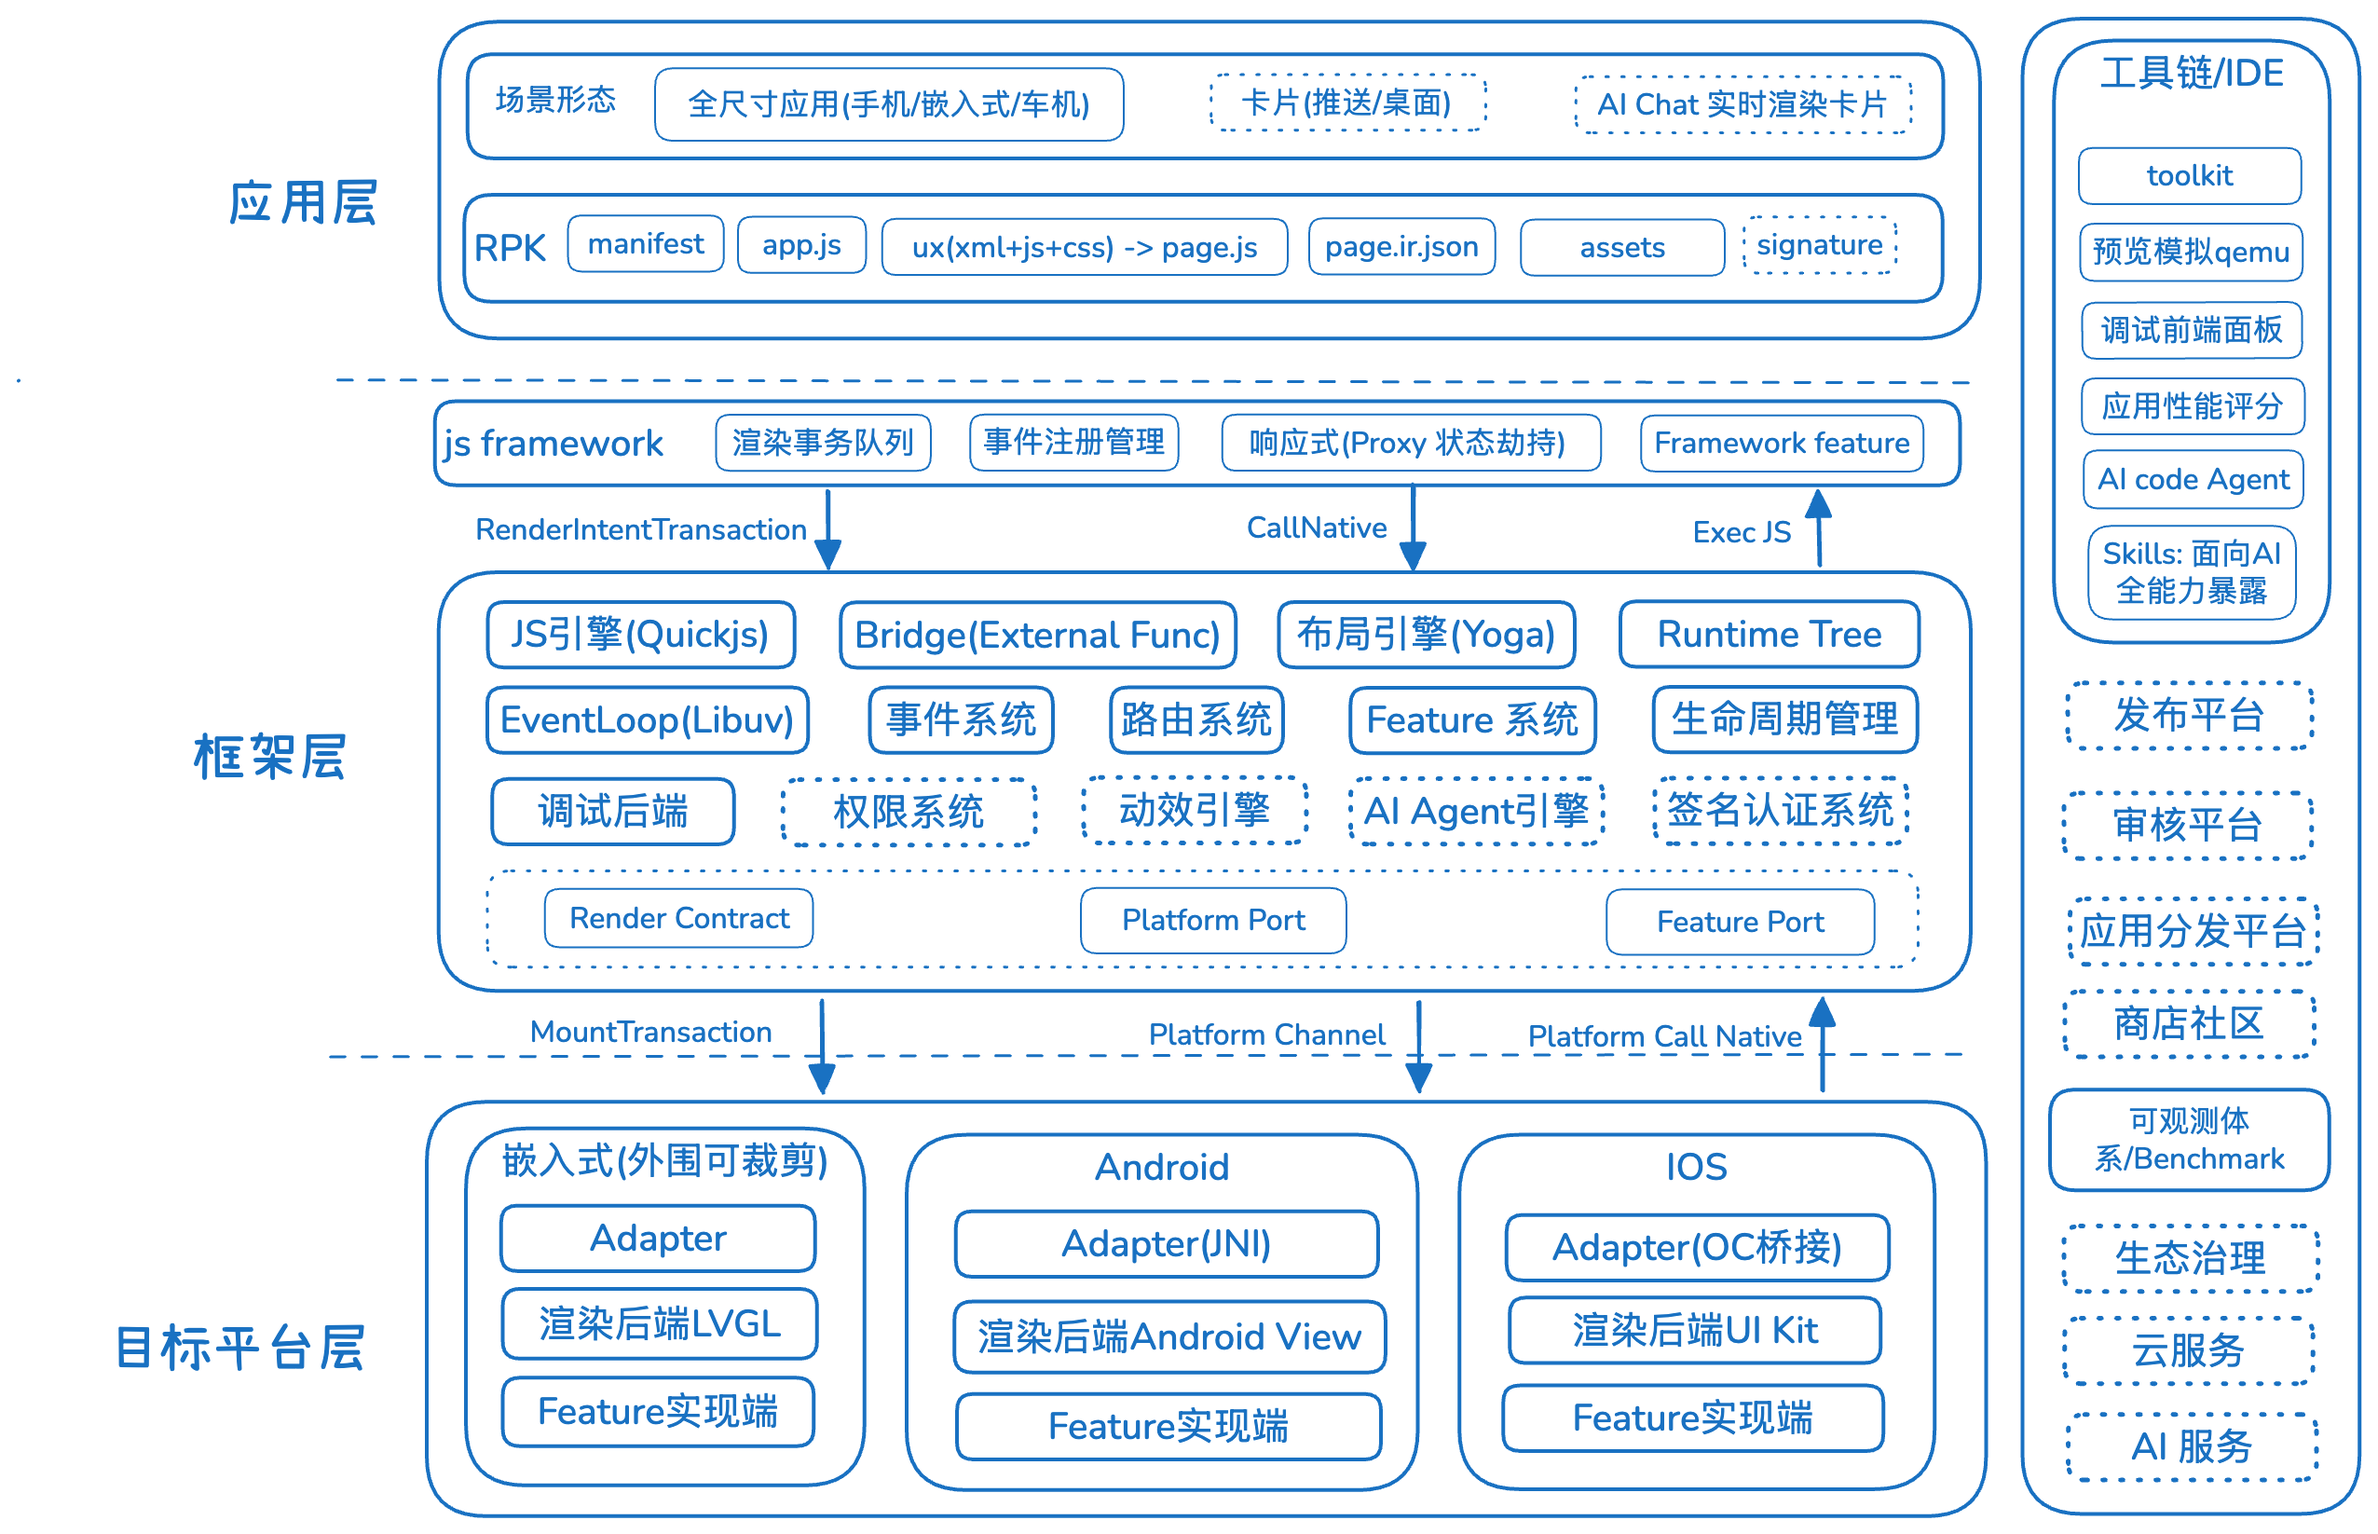
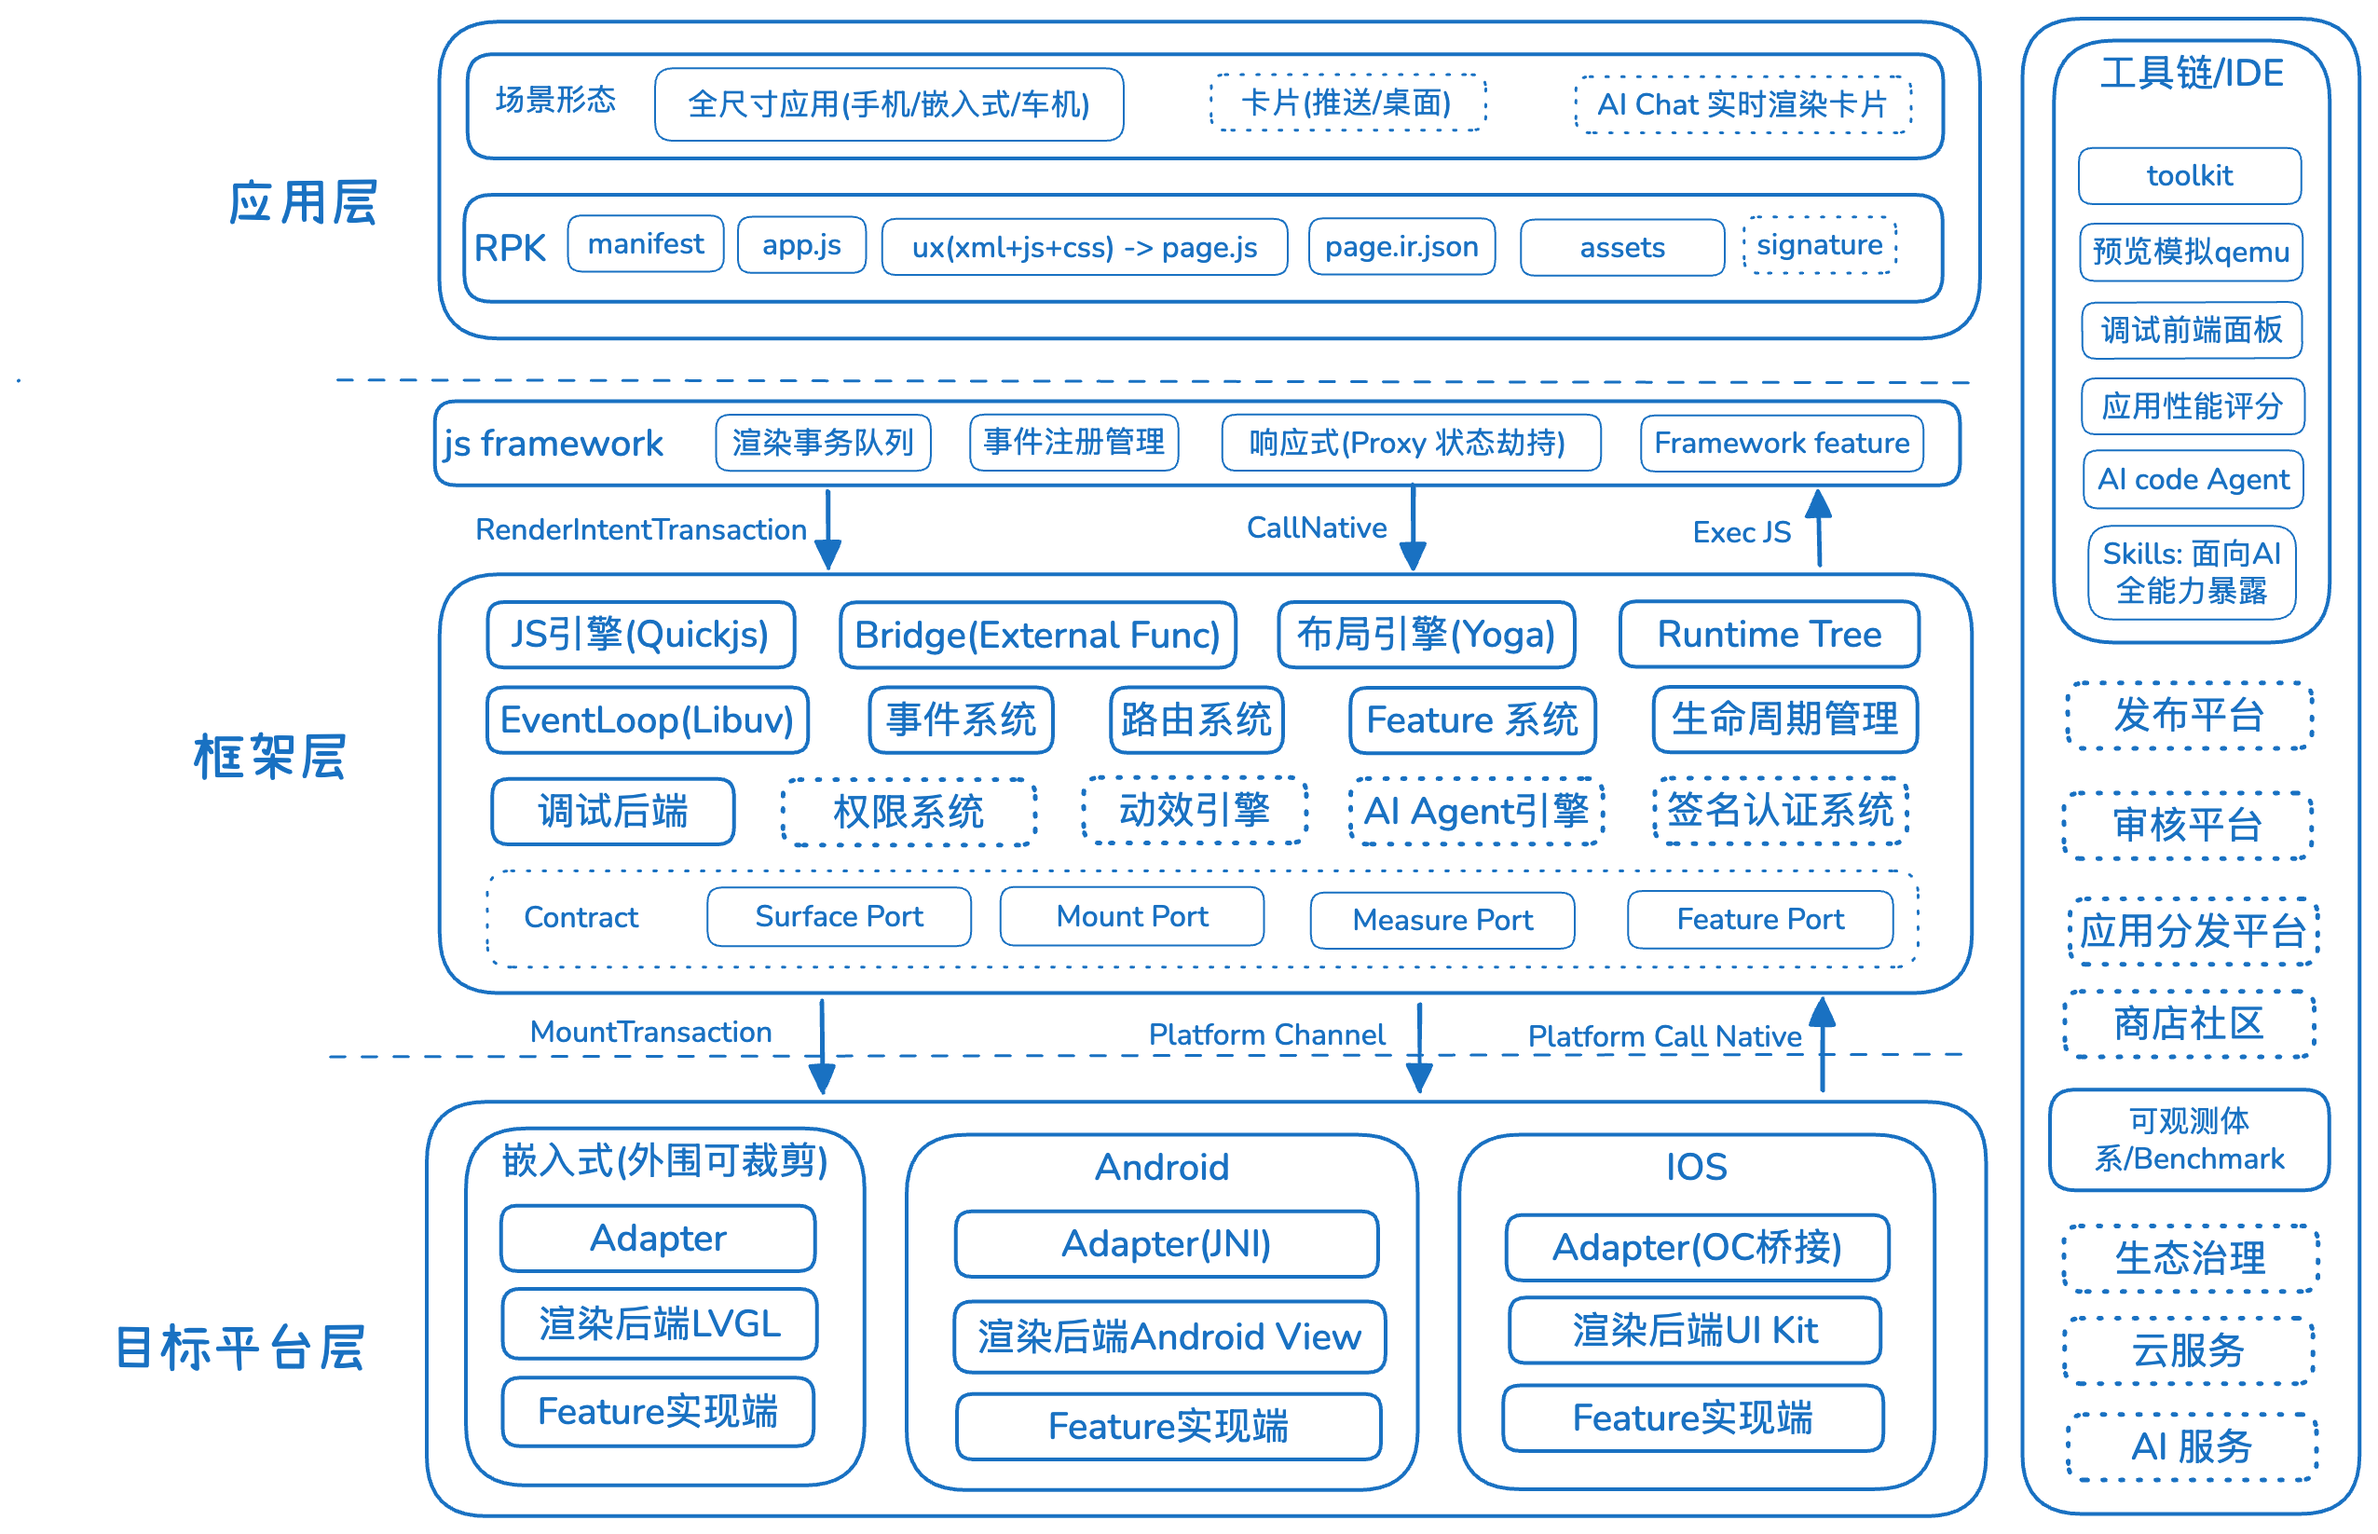
docs: add isomorphic boundaries; refine port names in diagram

Changed region(s): [[0.1857, 0.5887, 0.8358, 0.6507], [0.1857, 0.3718, 0.8049, 0.4028]]

diff --git a/profile/README.md b/profile/README.md
@@ -36,6 +36,7 @@ The Core is platform-independent and open for any platform to attach; the offici
 - **Platform-independent C++ Core** — core logic pushed down and consolidated into the Core, zero platform leakage; the Platform Port + Adapter mechanism attaches any platform (LVGL / Android / iOS already wired in as rendering backends).
 - **Single authoritative Runtime Tree** — the Core owns the tree and layout (Yoga), NodeID-driven, no old/new dual-tree full diff; local-update cost stays independent of tree size.
 - **JSON-free bridge** — external-function direct calls, no per-call JSON serialization; platform side is Android = JNI / iOS = ObjC++ / LVGL = in-process. Render pipeline: NodeID addressing + transaction-driven.
+- **Isomorphic boundaries** — all Core ports (JS / Platform) share one shape: `post(typed message) → EnqueueResult`; clean, even, predictable and composable.
 - **Swappable core parts** — key parts (QuickJS / Yoga) depend on abstract ports (dependency inversion).
 - **Toolkit** — DSL → Page IR → RPK compile / inspect / run, with a built-in benchmark & observability suite.
 

diff --git a/profile/README.zh-CN.md b/profile/README.zh-CN.md
@@ -36,6 +36,7 @@ Core 平台无关、面向任意平台开放接入；官方引擎已将三端接
 - **平台无关 C++ Core** —— 核心能力下沉收敛到 Core，零平台泄漏；Platform Port 与 Adapter 机制可接入多平台（已接入 LVGL / Android / iOS 作为渲染后端）。
 - **唯一权威 Runtime Tree** —— Core 独占树与 Layout（Yoga），NodeID 驱动，无新旧双树全量 Diff；局部更新复杂度与树规模无关。
 - **免 JSON 序列化 bridge** —— 基于 external function 直调，平台侧 Android = JNI / iOS = ObjC++ 桥接 / LVGL = 同进程直调；渲染管线：NodeID 寻址 + 事务驱动。
+- **边界同构** —— Core 对外各 Port（JS / Platform）统一为 `post(typed message) → EnqueueResult` 的投递形态，clean 平整、可预测、可组合。
 - **核心部件可替换** —— 关键部件（QuickJS / Yoga）依赖抽象接口（依赖倒置）。
 - **核心工具链 Toolkit** —— DSL → Page IR → RPK 编译 / inspect / run + 内置 Benchmark 可观测体系。
 
